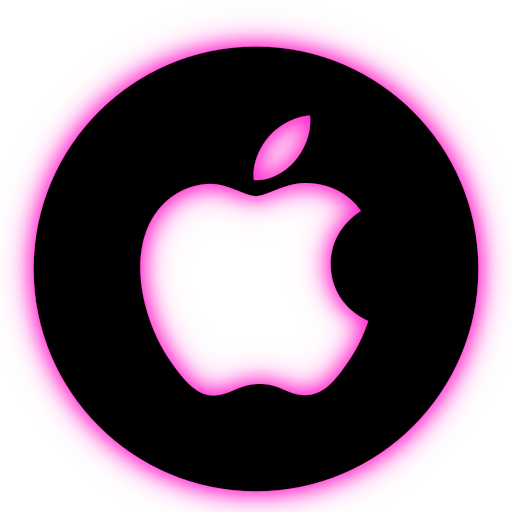
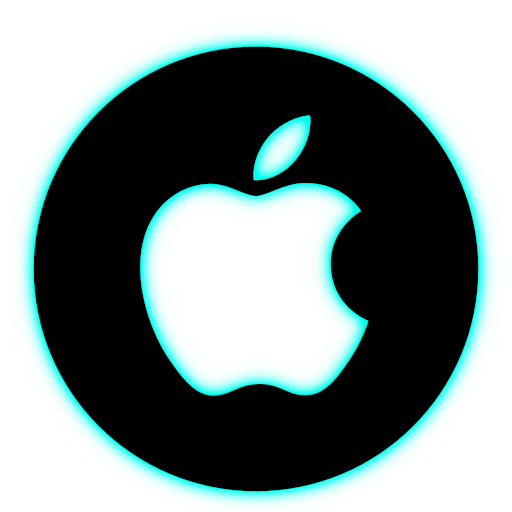
lij

Changed region(s): [[0.0, 0.0312, 1.0, 1.0], [0.25, 0.2188, 0.7188, 0.7812]]

diff --git a/index.html b/index.html
@@ -132,7 +132,7 @@ div1 {
 
 
 	<p style = "z-index: 1;">
- <img src="images\b1.gif" style="width:100vw; height:21vw; z-index: -2; margin-top:-28%">
+ <img src="images\yesboi.jpg" style="width:100vw; height:21vw; z-index: -2; margin-top:-28%">
 	 </p>
 	 
 	 
@@ -143,23 +143,23 @@ div1 {
 
 
 	   <a href="https://soundcloud.com/pink-phantom/over-my-dead-body" style="  text-decoration: none;">
-				<img width= '23%'; src="images\sboi.png">
+				<img width= '23%'; src="images\sBoiGLOW.png">
 
 </a>
 
 <a href="https://music.apple.com/us/album/over-my-dead-body-single/1539069269"" style="text-decoration: none;">
-<img width='23%'; src="images\a.png">
+<img width='23%'; src="images\aGLOW.png">
 
 </a>
 
 <a href="https://open.spotify.com/album/7tBGXmFmozmcAa1ypHBmLE" style=" text-decoration: none;">
 	
-  <img width='23%'; src="images\s.png">
+  <img width='23%'; src="images\sGLOW.png">
 
 </a>
 
 <a href="https://youtu.be/sElxu17QnG8" style=" text-decoration: none;">
-  <img src="images\zzz.png" width= '23%' >
+  <img src="images\zzzGLOW.png" width= '23%' >
 
 </a>
 
